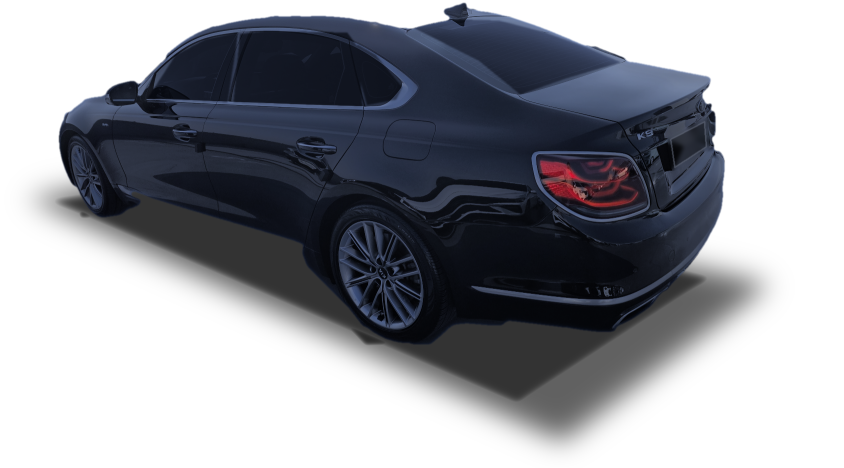
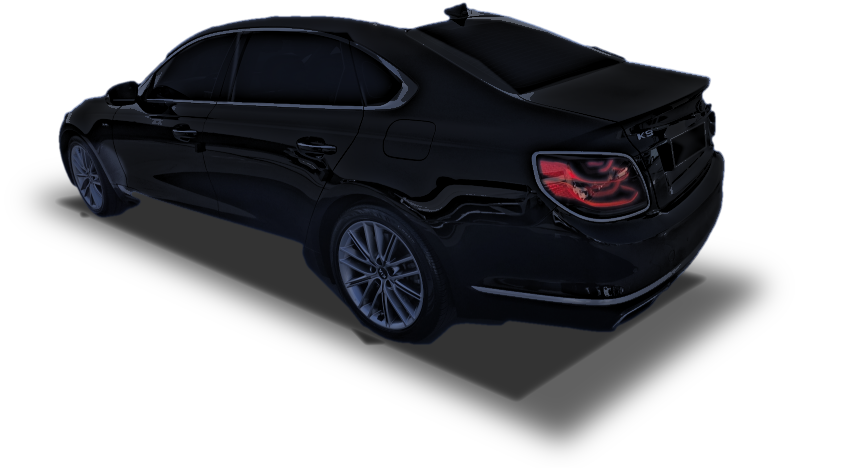
fix(hud): K9 R 사진 차 반사광 제거 + 바닥 반사 끔 (대감님 11/13 16:08 "반사광좀죽이라고")
차체 햇빛·하늘 반사(트렁크·지붕·유리·범퍼)를 화소 밝기·채도 보정으로 검은 차색으로. 후미등·바퀴·크롬 띠 유지, 모양·알파 무변경.
바닥 반사(차 뒤집은 그림) 끔, 빛 방향 바닥 빛만 유지. 궤적·표식·코드 무변경.

Changed region(s): [[0.0616, 0.0, 0.8626, 0.6282]]

diff --git a/openpilot/selfdrive/carrot/cluster/make_k9_reverse_deglare.py b/openpilot/selfdrive/carrot/cluster/make_k9_reverse_deglare.py
@@ -1,0 +1,69 @@
+#!/usr/bin/env python3
+"""K9 R screen photo car: kill the sun / sky glare on the body (대감님 11/13 16:08 "반사광좀죽이라고").
+
+Pixel brightness / saturation correction only on k9_reverse_photo.png (shape, size, frame untouched):
+- glare = the smooth (low-frequency) brightness of the body above a black-paint level; it is subtracted, the fine
+  detail (panel lines, chrome strips) is kept, and the result is pulled toward neutral so grey/white sheen turns black
+- kept as is: tail lamps (red hue), wheels (two fixed discs), thin chrome strips (high-frequency bright lines)
+- the baked ground shadow (alpha <= BODY_A) is not touched
+Reads the git original (REF) so re-running gives the same file:  python make_k9_reverse_deglare.py
+"""
+import subprocess
+from pathlib import Path
+
+import cv2
+import numpy as np
+
+HERE = Path(__file__).resolve().parent
+OUT = HERE / "assets" / "images" / "k9_reverse_photo.png"
+REF = "83aa2d307"  # last commit with the un-corrected photo
+BODY_A = 0.95
+BLACK = 0.07        # target low-frequency level of black paint (0..1)
+SIGMA = 9.0         # px, glare scale
+KEEP_DETAIL = 0.55  # share of fine detail kept on glare areas
+WHEELS = ((380, 272, 66), (90, 178, 36))  # (cx, cy, r) in this file px
+
+
+def load_ref() -> np.ndarray:
+    rel = OUT.relative_to(Path(subprocess.check_output(["git", "rev-parse", "--show-toplevel"], cwd=HERE, text=True).strip()))
+    raw = subprocess.check_output(["git", "show", f"{REF}:{rel.as_posix()}"], cwd=HERE)
+    return cv2.imdecode(np.frombuffer(raw, np.uint8), cv2.IMREAD_UNCHANGED)
+
+
+def keep_mask(bgr: np.ndarray, a: np.ndarray) -> np.ndarray:
+    hsv = cv2.cvtColor((bgr * 255).astype(np.uint8), cv2.COLOR_BGR2HSV).astype(np.float32)
+    hue, sat = hsv[..., 0], hsv[..., 1] / 255.0
+    red = ((hue < 12) | (hue > 165)) & (sat > 0.35)
+    red = cv2.dilate(red.astype(np.uint8), np.ones((5, 5), np.uint8)) > 0
+    h, w = a.shape
+    yy, xx = np.mgrid[0:h, 0:w]
+    wheel = np.zeros((h, w), bool)
+    for cx, cy, r in WHEELS:
+        wheel |= (xx - cx) ** 2 + (yy - cy) ** 2 < r * r
+    return red | wheel
+
+
+def main() -> None:
+    bgra = load_ref().astype(np.float32) / 255.0
+    bgr, a = bgra[..., :3], bgra[..., 3]
+    body = (a > BODY_A).astype(np.float32)
+    lum = bgr @ np.array([0.114, 0.587, 0.299], np.float32)
+    k = (0, 0)
+    low = cv2.GaussianBlur(lum * body, k, SIGMA) / np.maximum(cv2.GaussianBlur(body, k, SIGMA), 1e-4)
+    detail = lum - low
+    glare = np.clip(low - BLACK, 0, None)
+    new_lum = np.clip(np.minimum(low, BLACK) + KEEP_DETAIL * detail + (1 - KEEP_DETAIL) * np.minimum(detail, 0), 0, 1)
+    new_lum = np.where(detail > 0.12, lum - glare * 0.5, new_lum)  # thin chrome strips stay bright
+    gain = np.clip(new_lum / np.maximum(lum, 1e-4), 0, 1)
+    grey = lum[..., None]
+    desat = np.clip(glare / 0.25, 0, 1)[..., None] * 0.6
+    out = (bgr * (1 - desat) + grey * desat) * gain[..., None]
+    w = body * (~keep_mask(bgr, a))
+    w = cv2.GaussianBlur(w, (0, 0), 1.5) * body
+    res = bgr * (1 - w[..., None]) + out * w[..., None]
+    img = np.dstack([res, a])
+    cv2.imwrite(str(OUT), np.clip(img * 255 + 0.5, 0, 255).astype(np.uint8))
+
+
+if __name__ == "__main__":
+    main()

diff --git a/openpilot/selfdrive/carrot/cluster/make_k9_reverse_ground.py b/openpilot/selfdrive/carrot/cluster/make_k9_reverse_ground.py
@@ -19,7 +19,7 @@ FLOOR = HERE / "assets" / "images" / "k9_reverse_photo_floor.png"
 SRC = HERE / "assets" / "images" / "k9_reverse_photo.png"
 OUT = HERE / "assets" / "images" / "k9_reverse_photo_ground.png"
 NAVY = np.array([0.09, 0.16, 0.34], np.float32)  # RGB, the floor pool colour
-REFLECT_A = 0.45     # reflection strength at the contact line
+REFLECT_A = 0.0      # 대감님 11/13 16:08 "반사광좀죽이라고": floor reflection off (light direction kept)
 REFLECT_FADE = 50.0  # px (this file) for the reflection to fall to 1/e
 BODY_A = 0.95        # alpha above this = car body (the baked shadow tops out at 0.84)
 
@@ -31,7 +31,7 @@ def main() -> None:
     body = a > BODY_A
     out_rgb = np.zeros((h, w, 3), np.float32)
     out_a = np.zeros((h, w), np.float32)
-    for x in range(w):
+    for x in range(w if REFLECT_A > 0 else 0):
         ys = np.nonzero(body[:, x])[0]
         if ys.size == 0:
             continue
